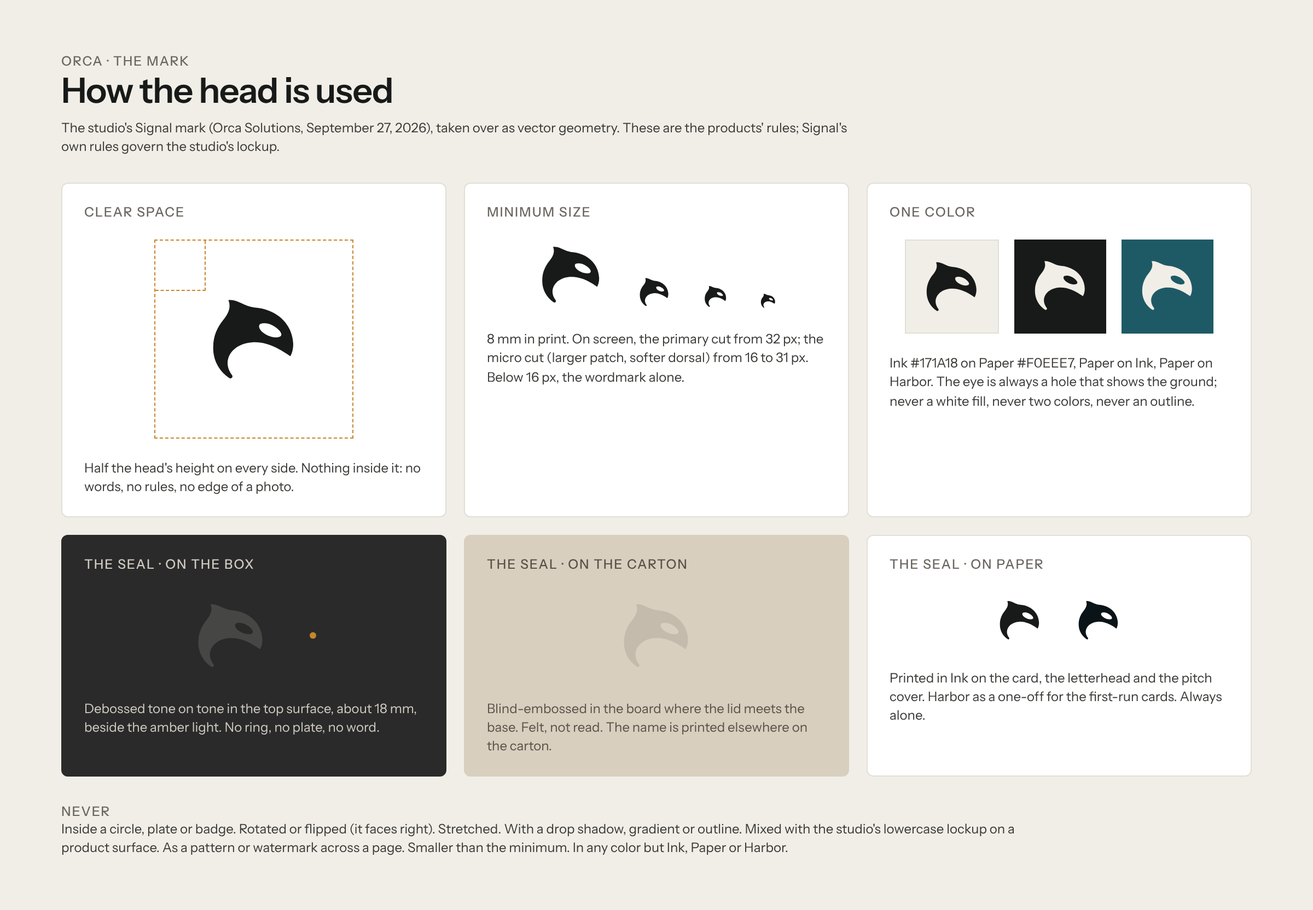
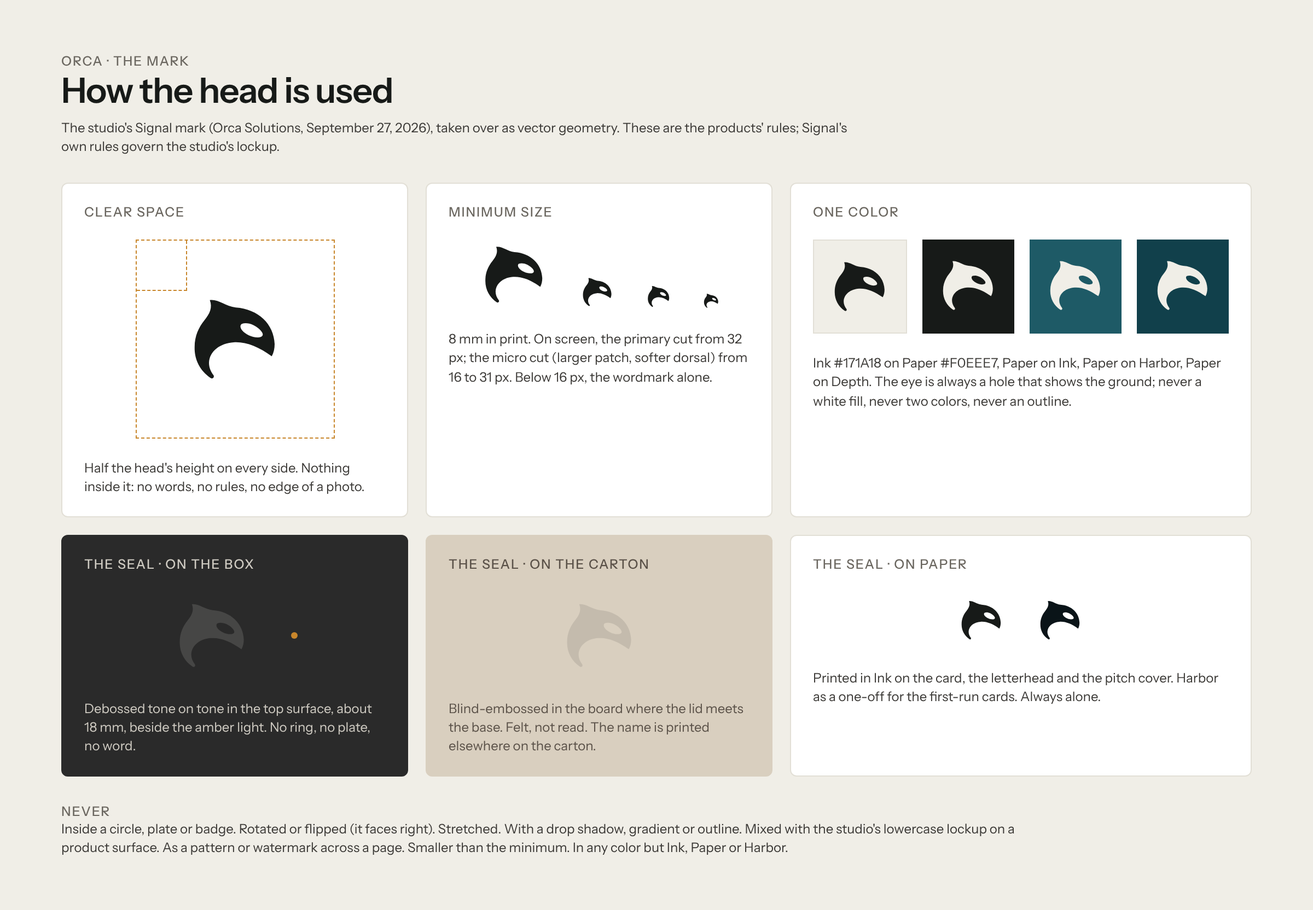
Set the page on the sea and the box against it
Jason chose the sea for the identity (brand brief B-13): Shallows in light
mode, Depth in dark. The header and hero now sit on it with the box drawn
against it, and the page closes on it under "Where it stands" and the
footer. The hero's wall and shelf are gone; the box keeps its feet and the
Paper seal, with the kit scene's finish and shadow. The kit copy is draft
0.4. Docs follow.

diff --git a/site/index.html b/site/index.html
@@ -3,8 +3,8 @@
 <head>
 <meta charset="utf-8">
 <meta name="viewport" content="width=device-width, initial-scale=1, viewport-fit=cover">
-<meta name="theme-color" content="#F0EEE7" media="(prefers-color-scheme: light)">
-<meta name="theme-color" content="#171A18" media="(prefers-color-scheme: dark)">
+<meta name="theme-color" content="#D8E6E4" media="(prefers-color-scheme: light)">
+<meta name="theme-color" content="#11404B" media="(prefers-color-scheme: dark)">
 <meta http-equiv="Content-Security-Policy" content="default-src 'none'; style-src 'self' 'unsafe-inline' https://fonts.googleapis.com; font-src https://fonts.gstatic.com; img-src 'self' data:; base-uri 'none'; form-action 'none'">
 <title>Orca Keel</title>
 <meta name="description" content="Orca Keel, the household computer. A quiet computer that keeps the house in order: it keeps the record, does only what you told it to, and keeps working when the internet is out. In development.">
@@ -19,14 +19,17 @@
 <link rel="stylesheet" href="https://fonts.googleapis.com/css2?family=Instrument+Sans:wght@400;500;600&family=Newsreader:ital,opsz,wght@0,6..72,400;0,6..72,500;1,6..72,400&display=swap">
 <style>
 /* Orca Keel landing page. Harbor palette and type from the Orca brand kit (brand/kit/tokens).
-   Layout: a 1120px column, wide margins, one accent per screen, the installer's layer on Ink. */
+   Layout: a 1120px column, wide margins, one accent per screen, the installer's layer on Ink.
+   The sea (Shallows in light mode, Depth in dark) is a ground, never a fill: the top of the page and the close. */
 :root {
   --orca-paper: #F0EEE7; --orca-white: #FFFFFF; --orca-ink: #171A18; --orca-harbor: #1E5A66;
   --orca-stone: #6B6760; --orca-linen: #E2DFD6; --orca-amber: #C8862B; --orca-paper-on-ink: #CFCBC2;
+  --orca-shallows: #D8E6E4; --orca-depth: #11404B;
 
   --bg: var(--orca-paper); --surface: var(--orca-white); --fg: var(--orca-ink); --fg-2: var(--orca-stone);
   --accent: var(--orca-harbor); --rule: var(--orca-linen); --signal: var(--orca-amber);
-  --wall: #D8D3C6; --shelf: #E4E0D5; --slab: #232423; --slab-edge: #121312; --daybook: #2C4F86;
+  --sea: var(--orca-shallows); --sea-fg-2: var(--orca-stone); --sea-accent: var(--orca-harbor); --sea-rule: #C4D4D1;
+  --slab-edge: #0E100F; --shadow: rgba(0, 0, 0, 0.26); --daybook: #2C4F86;
   --dark-bg: var(--orca-ink); --dark-fg: var(--orca-paper); --dark-fg-2: var(--orca-paper-on-ink); --dark-rule: #3D3D3D;
 
   --font-product: 'Instrument Sans', system-ui, -apple-system, 'Segoe UI', sans-serif;
@@ -36,13 +39,15 @@
 @media (prefers-color-scheme: dark) {
   :root:not([data-theme="light"]) {
     --bg: #171A18; --surface: #212422; --fg: #F0EEE7; --fg-2: #CFCBC2; --accent: #8FBFC9; --rule: #343735;
-    --wall: #363A36; --shelf: #2B2F2C; --slab: #0C0D0C; --slab-edge: #000000; --daybook: #9DB8E6;
+    --sea: var(--orca-depth); --sea-fg-2: #A9C3C2; --sea-accent: var(--orca-paper); --sea-rule: #245862;
+    --slab-edge: #000000; --shadow: rgba(0, 0, 0, 0.5); --daybook: #9DB8E6;
     --dark-bg: #0E100F; --dark-fg: #F0EEE7; --dark-fg-2: #CFCBC2; --dark-rule: #2E312F; color-scheme: dark;
   }
 }
 :root[data-theme="dark"] {
   --bg: #171A18; --surface: #212422; --fg: #F0EEE7; --fg-2: #CFCBC2; --accent: #8FBFC9; --rule: #343735;
-  --wall: #363A36; --shelf: #2B2F2C; --slab: #0C0D0C; --slab-edge: #000000; --daybook: #9DB8E6;
+  --sea: var(--orca-depth); --sea-fg-2: #A9C3C2; --sea-accent: var(--orca-paper); --sea-rule: #245862;
+  --slab-edge: #000000; --shadow: rgba(0, 0, 0, 0.5); --daybook: #9DB8E6;
   --dark-bg: #0E100F; --dark-fg: #F0EEE7; --dark-fg-2: #CFCBC2; --dark-rule: #2E312F; color-scheme: dark;
 }
 
@@ -71,6 +76,9 @@ p { margin: 0; }
 .button:hover { opacity: 0.9; }
 .visually-hidden { position: absolute; width: 1px; height: 1px; overflow: hidden; clip: rect(0 0 0 0); white-space: nowrap; }
 
+/* The sea: the ground at the top of the page and at its close. On Depth, links are Paper. */
+.sea { background: var(--sea); --bg: var(--sea); --fg-2: var(--sea-fg-2); --accent: var(--sea-accent); --rule: var(--sea-rule); }
+
 /* Header */
 .header { display: flex; flex-wrap: wrap; justify-content: space-between; align-items: center; gap: 12px 24px; padding-block: 20px; }
 .lockup { display: inline-flex; align-items: center; color: var(--fg); text-decoration: none; font-size: 19px; letter-spacing: -0.03em; }
@@ -88,9 +96,9 @@ p { margin: 0; }
 .hero-copy { flex: 1 1 440px; min-width: 0; display: flex; flex-direction: column; gap: 24px; }
 .hero-actions { display: flex; flex-wrap: wrap; gap: 12px 20px; align-items: center; }
 .hero-art { flex: 1 1 360px; min-width: 0; display: flex; justify-content: center; }
-.shelf { width: 100%; max-width: 460px; aspect-ratio: 4 / 3; background: linear-gradient(var(--wall) 0 78%, var(--shelf) 78% 100%); border-radius: 10px; position: relative; overflow: hidden; }
-.shelf::after { content: ""; position: absolute; left: 0; right: 0; bottom: 22%; border-top: 1px solid rgba(0,0,0,0.12); }
-.box { position: absolute; z-index: 1; left: 50%; bottom: calc(22% + 8px); transform: translateX(-50%); width: 60%; height: 14%; background: var(--slab); border-radius: 6px; box-shadow: 0 18px 26px rgba(0,0,0,0.26), inset 0 -2px 0 var(--slab-edge); display: flex; align-items: center; justify-content: space-between; padding-inline: 5%; }
+.scene { width: 100%; max-width: 460px; aspect-ratio: 16 / 10; position: relative; }
+@media (max-width: 600px) { .scene { aspect-ratio: 2 / 1; } }
+.box { position: absolute; left: 50%; top: 50%; transform: translate(-50%, -50%); width: 70%; height: 23%; background: linear-gradient(160deg, #272B2A 0%, var(--orca-ink) 52%, #111312 100%); border-radius: 7px; box-shadow: 0 26px 40px var(--shadow), 0 6px 12px var(--shadow), inset 0 1px 0 rgba(255,255,255,0.08), inset 0 -2px 0 var(--slab-edge); display: flex; align-items: center; justify-content: space-between; padding-inline: 5%; }
 .box::before, .box::after { content: ""; position: absolute; bottom: -8px; width: 9%; height: 8px; background: var(--slab-edge); border-radius: 0 0 3px 3px; }
 .box::before { left: 8%; }
 .box::after { right: 8%; }
@@ -133,7 +141,6 @@ p { margin: 0; }
 .item p { font-size: 14px; line-height: 1.45; }
 
 /* Where it stands */
-.stands { border-top: 1px solid var(--rule); }
 .stands .wrap { display: flex; flex-wrap: wrap; align-items: flex-start; justify-content: space-between; gap: 24px 48px; padding-block: 56px; }
 .stands-copy { flex: 1 1 420px; min-width: 0; display: flex; flex-direction: column; gap: 12px; max-width: 62ch; }
 
@@ -148,7 +155,8 @@ p { margin: 0; }
 </head>
 <body>
 
-<header class="wrap header" id="top">
+<header class="sea" id="top">
+<div class="wrap header">
   <a class="lockup" href="#top" aria-label="Orca Keel, home">
     <svg viewBox="0 0 240 240" aria-hidden="true"><path d="M58 25 C78 22 96 40 121 43 C177 47 214 84 216 132 C216 143 214 153 209 162 C177 139 146 126 116 128 C83 130 57 150 56 178 C56 189 60 199 67 208 C70 213 65 218 60 215 C35 198 20 171 21 139 C21 113 31 91 45 74 C58 58 65 43 58 25 Z M136 83 C149 78 168 85 180 97 C192 109 188 116 174 116 C161 116 144 108 137 99 C132 93 131 86 136 83 Z" fill="currentColor" fill-rule="evenodd"/></svg>
     <b>orca</b><span>keel</span>
@@ -160,10 +168,12 @@ p { margin: 0; }
     <a href="#carton">In the carton</a>
     <span class="status">In development</span>
   </nav>
+</div>
 </header>
 
 <main>
-  <section class="wrap hero" aria-labelledby="hero-heading">
+  <section class="sea" aria-labelledby="hero-heading">
+  <div class="wrap hero">
     <div class="hero-copy">
       <p class="label">The household computer</p>
       <h1 id="hero-heading">A quiet computer that keeps the house in order.</h1>
@@ -174,8 +184,9 @@ p { margin: 0; }
       </div>
     </div>
     <div class="hero-art" aria-hidden="true">
-      <div class="shelf"><div class="box"><svg class="seal" viewBox="0 0 240 240"><path d="M63 29 C82 29 96 42 122 45 C176 49 211 85 213 132 C213 143 211 151 207 158 C174 137 145 127 117 130 C83 133 59 153 59 180 C59 190 63 199 68 207 C71 212 66 216 61 213 C36 196 22 170 23 140 C23 114 34 92 48 74 C62 57 68 44 63 29 Z M132 80 C146 75 168 83 182 96 C195 109 190 120 175 120 C160 120 140 110 132 100 C126 92 126 83 132 80 Z" fill="currentColor" fill-rule="evenodd"/></svg><div class="light"></div></div></div>
+      <div class="scene"><div class="box"><svg class="seal" viewBox="0 0 240 240"><path d="M63 29 C82 29 96 42 122 45 C176 49 211 85 213 132 C213 143 211 151 207 158 C174 137 145 127 117 130 C83 133 59 153 59 180 C59 190 63 199 68 207 C71 212 66 216 61 213 C36 196 22 170 23 140 C23 114 34 92 48 74 C62 57 68 44 63 29 Z M132 80 C146 75 168 83 182 96 C195 109 190 120 175 120 C160 120 140 110 132 100 C126 92 126 83 132 80 Z" fill="currentColor" fill-rule="evenodd"/></svg><div class="light"></div></div></div>
     </div>
+  </div>
   </section>
 
   <section class="band" id="how" aria-labelledby="how-heading">
@@ -259,7 +270,7 @@ p { margin: 0; }
     </div>
   </section>
 
-  <section class="stands" id="stands" aria-labelledby="stands-heading">
+  <section class="sea stands" id="stands" aria-labelledby="stands-heading">
     <div class="wrap">
       <div class="stands-copy">
         <p class="label">Where it stands</p>
@@ -270,7 +281,8 @@ p { margin: 0; }
   </section>
 </main>
 
-<footer class="wrap footer">
+<footer class="sea">
+<div class="wrap footer">
   <div class="footer-made">
     <svg viewBox="0 0 240 240" aria-hidden="true"><path d="M63 29 C82 29 96 42 122 45 C176 49 211 85 213 132 C213 143 211 151 207 158 C174 137 145 127 117 130 C83 133 59 153 59 180 C59 190 63 199 68 207 C71 212 66 216 61 213 C36 196 22 170 23 140 C23 114 34 92 48 74 C62 57 68 44 63 29 Z M132 80 C146 75 168 83 182 96 C195 109 190 120 175 120 C160 120 140 110 132 100 C126 92 126 83 132 80 Z" fill="currentColor" fill-rule="evenodd"/></svg>
     <span>Orca Keel is made by Orca, a software studio. It started with a spreadsheet.</span>
@@ -280,6 +292,7 @@ p { margin: 0; }
     <a href="https://diamonddog.orcasolutions.dev/">Diamond Dog</a>
     <a href="https://github.com/Orca-Solutions">Orca Solutions on GitHub</a>
   </div>
+</div>
 </footer>
 
 </body>

diff --git a/brand/kit/tokens/colors.css b/brand/kit/tokens/colors.css
@@ -1,4 +1,5 @@
-/* Orca brand tokens · draft 0.2 · 2026-10-21
+/* Orca brand tokens · draft 0.3 · 2026-10-22 (the sea at three depths, B-13; Amber as the one point of contrast, B-14)
+   The family two-tone is Ink and Chalk (Paper); Orca Keel's accent is the sea; Amber is its one warm point.
    Harbor is the default theme. Add data-theme="workshop" on <html> for the alternative. */
 
 :root {
@@ -6,10 +7,12 @@
   --orca-paper:   #F0EEE7;  /* ground: the studio's Chalk */
   --orca-white:   #FFFFFF;  /* surface */
   --orca-ink:     #171A18;  /* text, the mark, the box: the studio's Ink */
-  --orca-harbor:  #1E5A66;  /* accent: one emphasis per screen */
+  --orca-harbor:  #1E5A66;  /* the sea, mid: links, selected states, one emphasis per screen */
+  --orca-shallows: #D8E6E4; /* the sea, light: a ground for hero and section bands, behind the box */
+  --orca-depth:   #11404B;  /* the sea, dark: the same grounds in dark mode */
   --orca-stone:   #6B6760;  /* secondary text */
   --orca-linen:   #E2DFD6;  /* rules */
-  --orca-amber:   #C8862B;  /* the listening light only */
+  --orca-amber:   #C8862B;  /* the one warm point: the light; one period or arrow per page; never text or a fill */
   --orca-paper-on-ink: #CFCBC2;
   --orca-vermilion: #E65032;  /* the studio's accent; not on products */
 
@@ -21,6 +24,7 @@
   --accent:    var(--orca-harbor);
   --rule:      var(--orca-linen);
   --signal:    var(--orca-amber);
+  --sea:       var(--orca-shallows);  /* becomes Depth in dark mode */
 
   /* type */
   --font-product: 'Instrument Sans', system-ui, -apple-system, 'Segoe UI', sans-serif;
@@ -44,11 +48,21 @@
   --orca-white:  #FFFFFF;
   --orca-ink:    #111111;
   --orca-harbor: #111111;
+  --orca-shallows: #EDEDED;
+  --orca-depth:  #2A2A2A;
   --orca-stone:  #6A6A6A;
   --orca-linen:  #E6E6E6;
   --orca-amber:  #D8441C;
   --orca-paper-on-ink: #CFCFCF;
 }
+
+/* The sea: a ground, never a fill. Light mode rests on Shallows, dark mode on Depth.
+   Harbor is the accent on Shallows (6.0:1); on Depth, links are Paper (Harbor would be 1.5:1). */
+.orca-shallows { --bg: var(--orca-shallows); --surface: var(--orca-white); --fg: var(--orca-ink); --fg-2: var(--orca-stone); --accent: var(--orca-harbor); --rule: #C4D4D1; background: var(--bg); color: var(--fg); }
+.orca-depth    { --bg: var(--orca-depth); --surface: #1A4A55; --fg: var(--orca-paper); --fg-2: #A9C3C2; --accent: var(--orca-paper); --rule: #245862; background: var(--bg); color: var(--fg); }
+@media (prefers-color-scheme: dark) { .orca-sea { --bg: var(--orca-depth); --surface: #1A4A55; --fg: var(--orca-paper); --fg-2: #A9C3C2; --accent: var(--orca-paper); --rule: #245862; } }
+@media (prefers-color-scheme: light) { .orca-sea { --bg: var(--orca-shallows); --surface: var(--orca-white); --fg: var(--orca-ink); --fg-2: var(--orca-stone); --accent: var(--orca-harbor); --rule: #C4D4D1; } }
+.orca-sea { background: var(--bg); color: var(--fg); }
 
 /* The installer's layer: Ink ground, Paper text */
 .orca-dark {
@@ -75,3 +89,4 @@ h3 { font-size: var(--title); line-height: 1.15; }
 .button { display: inline-flex; align-items: center; min-height: 48px; padding: 0 22px; background: var(--fg); color: var(--bg); border-radius: var(--radius-control); font-weight: 500; font-size: var(--ui); text-decoration: none; }
 .card { background: var(--surface); border: 1px solid var(--rule); border-radius: var(--radius-card); }
 .light { width: 6px; height: 6px; border-radius: 3px; background: var(--signal); }
+.point { color: var(--signal); } /* the one amber point on a page: a headline's period, a link's arrow */

diff --git a/brand/kit/scenes/box.css b/brand/kit/scenes/box.css
@@ -1,0 +1,9 @@
+/* The box as drawn on the site until there is photography. Ground: var(--orca-depth) in dark mode, var(--orca-shallows) in light. */
+
+.sea{width:1600px;height:900px;position:relative;overflow:hidden}
+.box{position:absolute;left:50%;top:50%;width:560px;height:340px;margin:-150px 0 0 -280px;border-radius:26px;
+  background:linear-gradient(160deg,#272B2A 0%,#171A18 52%,#111312 100%);
+  box-shadow:0 60px 110px rgba(0,0,0,.38),0 8px 18px rgba(0,0,0,.28),inset 0 2px 0 rgba(255,255,255,.10),inset 0 -1px 0 rgba(0,0,0,.4)}
+.seal{position:absolute;left:68px;top:62px;opacity:.13}
+.light{position:absolute;left:176px;top:102px;width:12px;height:12px;border-radius:6px;background:#C8862B;box-shadow:0 0 14px 2px rgba(200,134,43,.55)}
+.lock{position:absolute;left:96px;top:84px}

diff --git a/brand/kit/README.md b/brand/kit/README.md
@@ -1,6 +1,6 @@
 # Orca · Brand Kit
 
-Draft 0.3, October 22, 2026 (0.2 on October 21). Built from the brand brief (`../01-brand-brief.md`) and the Orca Solutions **Signal v1.0** identity package (September 27, 2026), kept in the Orca Keel plan set (not in this repository). Harbor is the default theme; its neutrals are the studio's Ink #171A18 and Chalk #F0EEE7.
+Draft 0.4, October 22, 2026 (0.3 earlier that day, 0.2 on October 21; 0.4 adds the sea: Depth and Shallows, B-13). Built from the brand brief (`../01-brand-brief.md`) and the Orca Solutions **Signal v1.0** identity package (September 27, 2026), kept in the Orca Keel plan set (not in this repository). Harbor is the default theme; its neutrals are the studio's Ink #171A18 and Chalk #F0EEE7.
 
 The head is vector geometry from Signal's `geometry.json`: the primary cut for 32 px and up, and a micro cut (larger patch, softer dorsal) for 16 to 31 px and favicons. Signal's own usage rules in `source/orca-signal-v1/README.md` apply to the studio's lockup; the rules below apply to the products.
 
@@ -11,6 +11,7 @@ kit/
 ├── README.md                     this file
 ├── mark-usage-sheet.png          clear space, minimum size, one color, the seal, never
 ├── color-and-type-sheet.png      Harbor and Workshop swatches, the two typefaces
+├── sea-sheet.png                 how Depth and Shallows were chosen, the box and lockups on them, where the sea goes
 ├── voice-sheet.md                six rules, we say / never say, sample copy, tone by surface
 ├── mark/
 │   ├── orca-head-ink.svg         the mark in Ink #171A18 (also -chalk, -black, -white)
@@ -21,12 +22,14 @@ kit/
 │   ├── orca-wordmark             "orca" alone, lowercase
 │   ├── orca-lockup               head + orca
 │   ├── orca-keel-lockup          head + orca keel, one line: orca 600, keel 400, 0.16 em between
-│   ├── orca-keel-stacked         head above orca / keel
+│   ├── orca-keel-stacked         head above orca / keel at equal size: the secondary lockup for narrow spots
 │   ├── keel-wordmark             "keel" alone (settings icon source)
 │   ├── by-orca                   the endorsement line for Daybook and partner surfaces
 │   ├── orca-solutions-words      the studio in words, for product surfaces; the studio's own lockup is in source/
+│   ├── *-on-shallows, *-on-depth the orca-keel, orca-keel-stacked and orca lockups on the sea grounds, with clear space built in
 │   ├── *-titlecase               the title-case set ("Orca Keel"), kept as an alternate, not for new work
 │   └── contact-sheet.png         all of the above on Chalk and on Ink
+├── scenes/                       the box drawn on the sea until there is photography: box-on-depth, box-on-shallows, each with and without the lockup, 1600×900 and @2x, plus box.css
 └── tokens/
     ├── tokens.json               colors, type scale, space, radius, mark rules, the light
     └── colors.css                the same as CSS custom properties, with a workshop theme and .orca-dark
@@ -38,9 +41,13 @@ kit/
 
 **The seal.** The head alone is pressed into every physical product: debossed tone on tone in the box's top surface (about 18 mm, beside the amber light); blind-embossed in the carton board; printed in Ink on the card. No word with it.
 
-**Lockups.** Lowercase, like the studio's lettering (jason, 2026-10-22). The umbrella on product surfaces is the head plus "orca" in Instrument Sans semibold. A product is "orca" semibold followed by its word in regular at the same size, 0.16 em apart, never a full space: orca keel. In running text the name is written Orca Keel; lowercase is for the lockup only. The studio keeps its Signal lockup (head + lowercase orca / solutions in outlined Helvetica Neue) on its own site and documents; on product surfaces it is "Orca Solutions" in words at a smaller size. Software (Daybook) keeps its own name and icon and carries "by Orca" where there is room.
+**Lockups.** Lowercase, like the studio's lettering (jason, 2026-10-22). The umbrella on product surfaces is the head plus "orca" in Instrument Sans semibold. A product is "orca" semibold followed by its word in regular at the same size, 0.16 em apart, never a full space: orca keel. In running text the name is written Orca Keel; lowercase is for the lockup only. Two structures, two owners: inline and same-size is the product's primary; the same-size stack (`orca-keel-stacked`) is the product's secondary for narrow spots such as a box side or a square icon context; the big-word/small-word stack (big "orca", small spaced word beneath) is the studio's alone, because "solutions" is descriptive and a product's second word is the point. The studio keeps its Signal lockup (head + lowercase orca / solutions in outlined Helvetica Neue) on its own site and documents; on product surfaces it is "Orca Solutions" in words at a smaller size. Software (Daybook) keeps its own name and icon and carries "by Orca" where there is room.
 
-**Color.** Paper ground, Ink text, Harbor once per screen, Stone for secondary text, Linen for rules, Amber for the listening light and nothing else. The installer's layer is Ink ground with Paper text (`.orca-dark`).
+**Color.** The family rule (jason, 2026-10-22, B-14; "the wheelhouse has many spokes, but it must be an integrated whole too"): every Orca product shares the two-tone, Ink and Chalk, and carries its own accents; the studio has Vermilion, Garnet Guard its garnet, Diamond Dog its green and purple, and Orca Keel the sea. On Keel: Paper ground, Ink text, Stone for secondary text, Linen for rules; the sea at three depths as the accent (Shallows, Harbor, Depth), with Harbor the only one that is ever text; Amber as the one warm point of contrast. The installer's layer is Ink ground with Paper text (`.orca-dark`).
+
+**The sea** (jason, 2026-10-22, B-13). Two grounds in Harbor's hue bring the calm of deep water into the identity and the site: Shallows #D8E6E4 in light mode, Depth #11404B in dark mode (`.orca-shallows`, `.orca-depth`, or `.orca-sea` to follow the system). The sea is a ground, never a fill: the site's hero and one band per page, the backdrop behind the box, the Daybook icon, covers, and perhaps the inside of the carton lid. It never touches the mark (Ink or Chalk, Chalk on the sea), the box's finish (Ink), the light (Amber), text, buttons or rules, or the carton's outside. Harbor is the sea's middle depth and the only sea tone used as text; on Depth, links are Paper. No gradients, no photographs of water.
+
+**The one point** (B-14). Amber is the true contrast to the sea, and it stays rare so it keeps its meaning. On the box it is the listening light. In the app it marks the listening state and nothing else. On the site and in print it may appear once per page as a point, never an area: the period that ends a headline, the arrow on a link, the way the studio's site uses its Vermilion. Never text, never a fill, never a button, never on the mark. No fourth color: a warm red would blur into the studio's Vermilion, and Amber already sits opposite the sea on the wheel.
 
 **Type.** Instrument Sans is the product's voice (wordmark, interface, headings, carton). Newsreader is the record's voice (Daybook entries, matters, long copy). No third face; monospace only in installer documentation.
 
@@ -61,6 +68,6 @@ The SVG lockups set text as outlines from the Google Fonts TTFs (Instrument Sans
 
 ## What is still placeholder
 
-- Photography: none yet. Flat Paper panels with the box drawn as a dark slab stand in.
+- Photography: none yet. The box drawn as a dark slab on Depth or Shallows (`scenes/`) stands in.
 - Prices, dates, unit counts, the app link and the pairing code on the card: bracketed placeholders until the pilot.
 - The carton dieline and the card at print size: mocked on the canvas, not yet drawn to dimensions.

diff --git a/docs/SPEC.md b/docs/SPEC.md
@@ -6,13 +6,13 @@ One static page, `site/index.html`, for the family household, with the installer
 
 | Section | Carries | Source |
 | --- | --- | --- |
-| Header | Head + "orca keel" lockup, section links, the status "In development" | Kit lockups; sibling pages' candid status line |
-| Hero | "The household computer" label, the one-line claim, the sub, a link to where it stands, the flat panel: a wall above a shelf, the box as a dark slab on two short feet, the head in Paper on its front and one amber dot | Brief §3, §6, §7 imagery placeholder |
+| Header | Head + "orca keel" lockup, section links, the status "In development", on the sea with the hero | Kit lockups; sibling pages' candid status line |
+| Hero | "The household computer" label, the one-line claim, the sub, a link to where it stands, the box drawn on the sea: an Ink slab on two short feet, the head in Paper on its front, one amber dot, a shadow for the dimension | Brief §3, §6, §7 imagery placeholder; the sea, B-13; `brand/kit/scenes/` |
 | How it works | The three claims: it keeps the record, it does only what you said, it keeps working | Voice sheet |
 | Daybook | Daybook's house mark beside the paragraph, the name linked to daybook.orcasolutions.dev; what the app is, which models it works with (Claude, ChatGPT or another provider; cloud only, one task's worth, under a grant), an example matter with its grant | Voice sheet sample copy; plan docs 08 (R12, R13, R19) and OH7 |
 | For the installer | The dark layer: "Not an agent with your passwords", seven plain limits (the last: no model runs on the box), and Diamond Dog as the layer that makes them hold, its mark beside the paragraph and the name linked to diamonddog.orcasolutions.dev | Brief §2, §3, §4 |
 | In the carton | Four things: the box, the power cord, one card, the backup drive | Brief §8 |
-| Where it stands | "Coming soon." Built in one house first; a waiting list will open; no units, dates, price or address | Jason, 2026-10-22: no promises, no blanks, email waits for Keel's own domain |
+| Where it stands | "Coming soon." Built in one house first; a waiting list will open; no units, dates, price or address. The page's one further band of sea, shared with the footer | Jason, 2026-10-22: no promises, no blanks, email waits for Keel's own domain; brief §6 layout |
 | Footer | "Made by Orca. It started with a spreadsheet." Links to Daybook, Diamond Dog, the GitHub organisation | Brief §6 |
 
 ## Rules
@@ -22,6 +22,7 @@ One static page, `site/index.html`, for the family household, with the installer
 - Works at phone width without horizontal scroll; 1120 px column on desktop.
 - "Orca Keel" in full in the title, metadata, carton, footer line and the first mention on the page; "Keel" alone afterwards. Never "Keel by Orca". The lockup is lowercase, "orca keel", set live in CSS: "orca" at 600, "keel" at 400, 0.16 em apart, tracking -0.03 em, the head 6 px from the word.
 - The mark appears alone, as the head: in the lockup, the favicon and the footer. Never in a badge.
+- The sea (Shallows #D8E6E4 in light mode, Depth #11404B in dark) is a ground, never a fill: the header and hero at the top, and the "where it stands" section with the footer at the close. Nothing else sits on it; text, buttons and rules never take its colour. On Depth, links are Paper. The browser's theme colour follows it. Amber stays the box's light alone (B-14 allows one further point per page; the page uses none).
 - Every number on the page is invented and labelled as an example (the water bill). Nothing else is counted, dated or priced.
 - Sibling marks (Daybook's house, Diamond Dog's dog) appear once each, 32 px, beside the paragraph that names the product, in that product's own colour rules: Daybook's blue-black, Diamond Dog in Paper on Ink.
 

diff --git a/WORKING_RECORD.md b/WORKING_RECORD.md
@@ -2,6 +2,12 @@
 
 Current state, open tasks, verification and review dispositions. Newest first.
 
+## 2026-10-22: the sea
+
+**State.** Jason chose colour for the identity in the brand thread (brief B-13): Shallows #D8E6E4 as the light-mode ground and Depth #11404B as the dark-mode ground, Harbor unchanged as the accent, the sea a ground and never a fill, the hero on it and at most one more band per page. He asked for the box set against it and the colours through the site, minimal and tasteful, and for design judgment on top of his calls. The page now opens on the sea (header and hero, the lockup Ink or Chalk on it) and closes on it ("Where it stands" and the footer); everything between stays Paper, the white claims band and the installer's Ink. The hero's wall-and-shelf panel is gone, since the sea is the ground now: the box is an Ink slab with the kit scene's finish and shadow, kept on its feet with the Paper seal and the amber light, a little larger than before. On Depth the box is tone on tone and the shadow does the separating, as the brief anticipates. The browser's theme colour follows the sea. Links on Depth are Paper, per the kit. Amber stays the box's light alone; B-14 allows one further point per page, and none is used. The kit copy is refreshed to draft 0.4 (tokens, sea sheet, lockups on the sea, the box scene), still without the Signal source package.
+
+**Verification.** Rendered with headless Chromium at 1280 px and 390 px in light and dark mode: no horizontal overflow, no console errors; hero checked at 2x in both themes. Author check only.
+
 ## 2026-10-22: the box, larger, on feet, with the seal in Paper
 
 **State.** After seeing the page live, Jason asked for the seal in the sand colour against the black of the box, a bigger box, and stubby legs for some dimension off the surface. The seal is now Paper (#F0EEE7, the kit's allowed colour for the head on Ink; the wall's sand tone is not one of the mark's colours), the deboss is gone, the box is 60% of the panel wide and 14% tall, and two feet in the slab's edge tone lift it 8 px off the shelf line. No copy changed.

diff --git a/AGENTS.md b/AGENTS.md
@@ -46,6 +46,6 @@ This repository is the public landing page for Orca Keel, the household computer
 - No prices, dates or unit counts until Jason gives them, and no placeholders for them either: the page says "coming soon" and nothing more (Jason, 2026-10-22). No contact address and no waiting list on the page until Keel has its own domain and email; the list's mechanism is Jason's decision.
 - Nothing collected, nothing tracked. No analytics, cookies, forms, embeds or scripts. The only third party at runtime is Google Fonts; the CSP meta tag in `site/index.html` allows exactly that. Changes to the CSP, `.github/workflows/pages.yml`, `site/_headers` or the canonical URL are high-risk: call them out at the top of the PR description.
 - The page never links to a live product. Orca Keel and Daybook have no public surface. Links go to the sibling landing pages and the studio's GitHub organisation only.
-- The brand kit is canonical. Colours, type and the mark come from `brand/kit/`; the page's `:root` copies `brand/kit/tokens/colors.css`. The mark is never put inside a ring, plate or badge, never recoloured outside Ink, Paper, black and white, and the eye is always a hole showing the ground. Amber is the listening light and nothing else.
+- The brand kit is canonical. Colours, type and the mark come from `brand/kit/`; the page's `:root` copies `brand/kit/tokens/colors.css`. The mark is never put inside a ring, plate or badge, never recoloured outside Ink, Paper, black and white, and the eye is always a hole showing the ground. Amber is the listening light and nothing else. The sea (Shallows in light mode, Depth in dark) is a ground, never a fill: the header and hero, and one further band per page, never text, buttons or rules; on Depth, links are Paper.
 - Example data is invented and says so. The Daybook matter on the page is illustrative.
 - GitHub Pages deploys `site/` from `main` through the workflow. The initial scaffold and page were pushed to `main` directly at Jason's request on 2026-10-21; that is not a standing exception.

diff --git a/CLAUDE.md b/CLAUDE.md
@@ -46,6 +46,6 @@ This repository is the public landing page for Orca Keel, the household computer
 - No prices, dates or unit counts until Jason gives them, and no placeholders for them either: the page says "coming soon" and nothing more (Jason, 2026-10-22). No contact address and no waiting list on the page until Keel has its own domain and email; the list's mechanism is Jason's decision.
 - Nothing collected, nothing tracked. No analytics, cookies, forms, embeds or scripts. The only third party at runtime is Google Fonts; the CSP meta tag in `site/index.html` allows exactly that. Changes to the CSP, `.github/workflows/pages.yml`, `site/_headers` or the canonical URL are high-risk: call them out at the top of the PR description.
 - The page never links to a live product. Orca Keel and Daybook have no public surface. Links go to the sibling landing pages and the studio's GitHub organisation only.
-- The brand kit is canonical. Colours, type and the mark come from `brand/kit/`; the page's `:root` copies `brand/kit/tokens/colors.css`. The mark is never put inside a ring, plate or badge, never recoloured outside Ink, Paper, black and white, and the eye is always a hole showing the ground. Amber is the listening light and nothing else.
+- The brand kit is canonical. Colours, type and the mark come from `brand/kit/`; the page's `:root` copies `brand/kit/tokens/colors.css`. The mark is never put inside a ring, plate or badge, never recoloured outside Ink, Paper, black and white, and the eye is always a hole showing the ground. Amber is the listening light and nothing else. The sea (Shallows in light mode, Depth in dark) is a ground, never a fill: the header and hero, and one further band per page, never text, buttons or rules; on Depth, links are Paper.
 - Example data is invented and says so. The Daybook matter on the page is illustrative.
 - GitHub Pages deploys `site/` from `main` through the workflow. The initial scaffold and page were pushed to `main` directly at Jason's request on 2026-10-21; that is not a standing exception.

diff --git a/CHANGELOG.md b/CHANGELOG.md
@@ -17,10 +17,12 @@ Notable changes to the Orca Keel landing page. The format follows [Keep a Change
 - The hero panel as a wall and a shelf; the box larger, on two short feet, with the head in Paper on its front.
 - The lockup in lowercase with the kit's spacing; the kit copy refreshed (lowercase lockups, title-case kept as an alternate).
 - Daybook's and Diamond Dog's marks beside their paragraphs; the product names are the links.
+- The sea: the header and hero on Shallows (light) or Depth (dark), the box drawn on it, and the page closing on it under "Where it stands" and the footer. The kit copy refreshed to draft 0.4 (sea tokens, sea sheet, lockups on the sea, the box scene).
 
 ### Changed
 
 - "Where it stands" says "coming soon" with no units, dates or placeholders.
+- The hero's wall-and-shelf panel is gone; the box sits on the sea with a shadow and its feet.
 
 ### Removed
 
